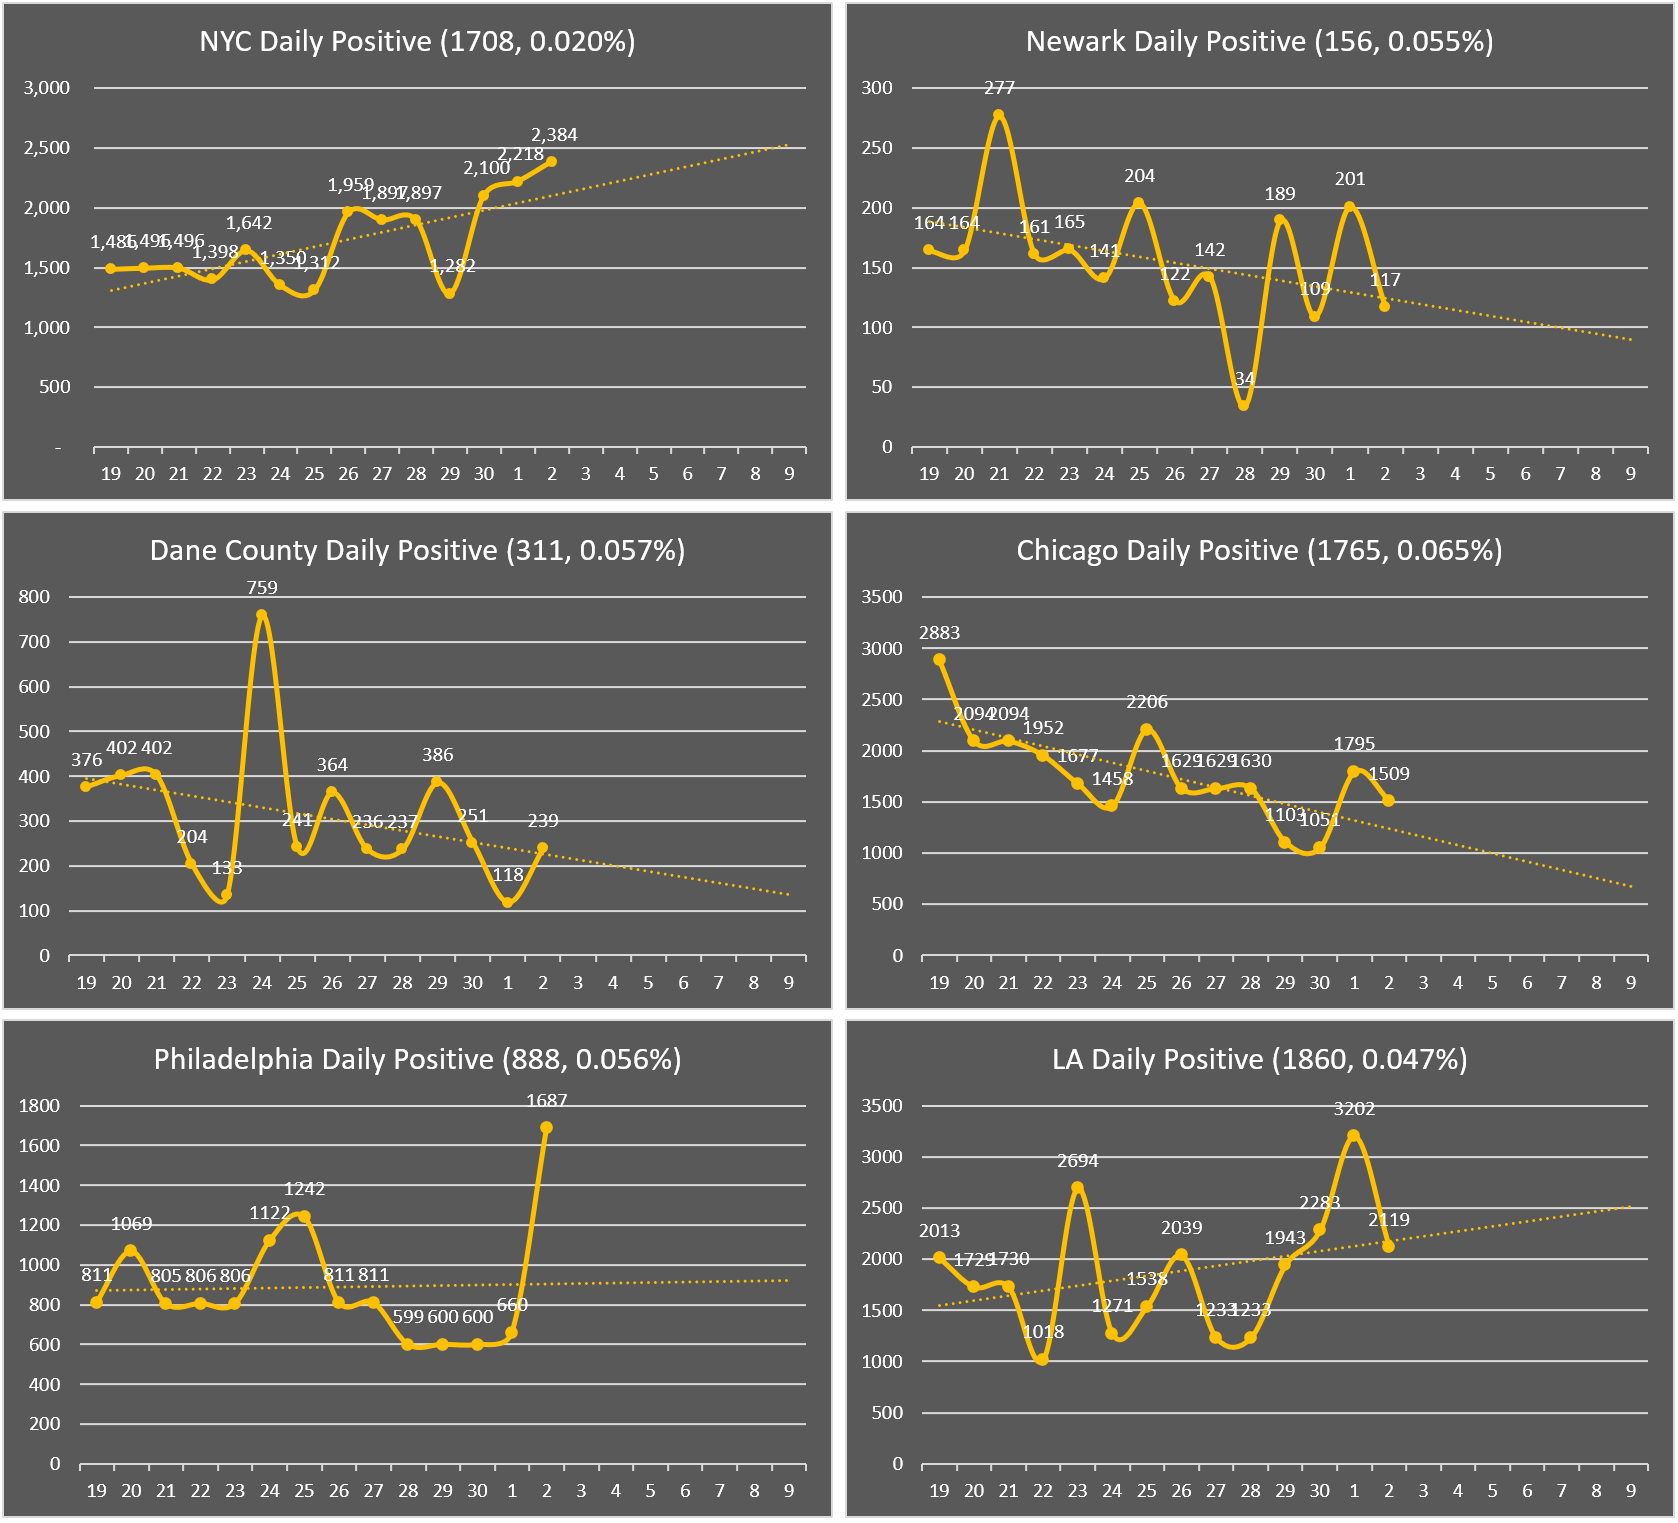
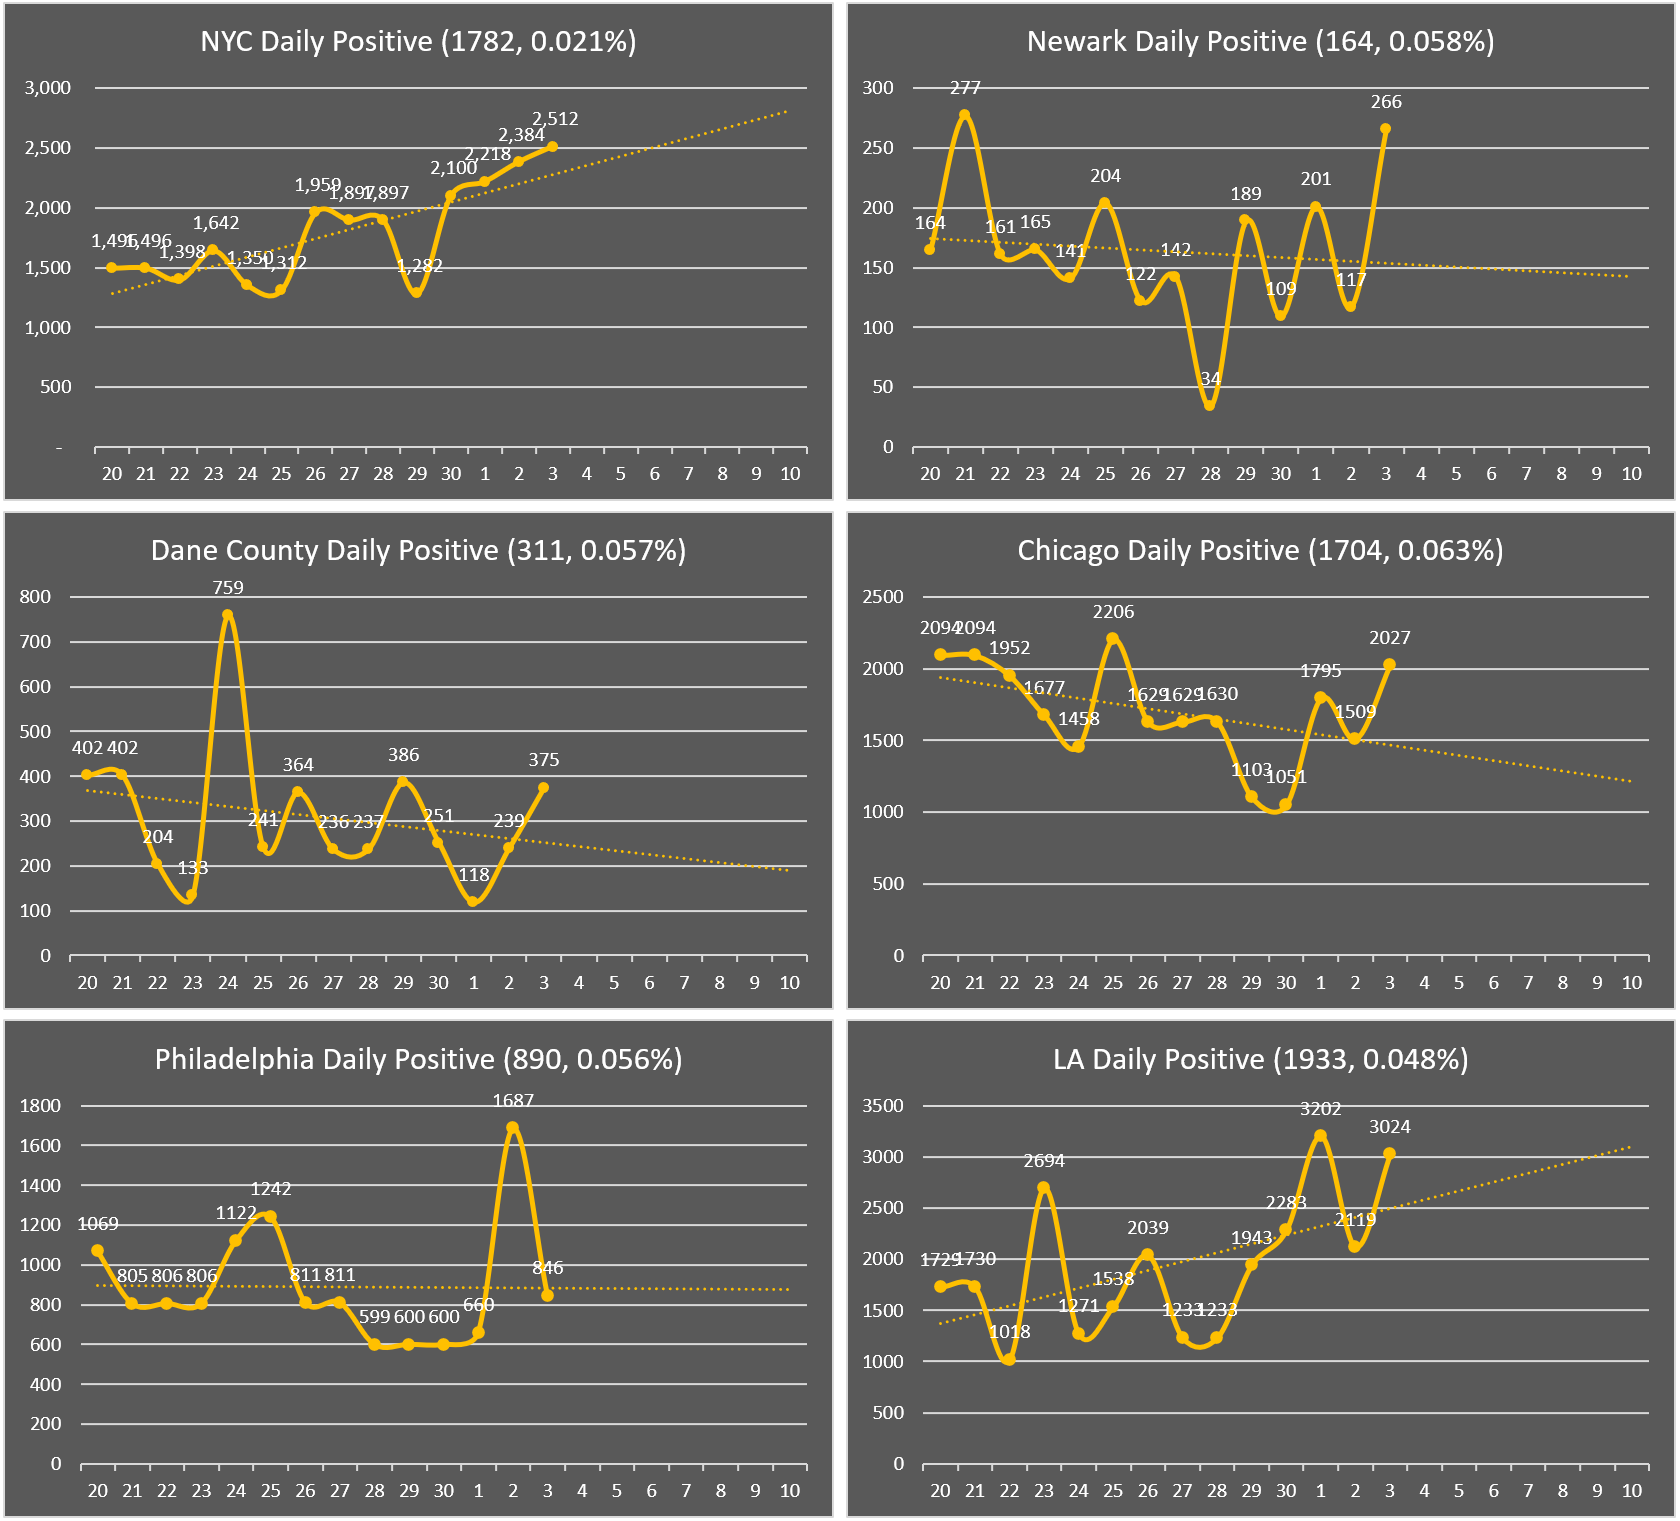
update 12/3 status

diff --git a/index.html b/index.html
@@ -19,7 +19,7 @@
 
 <body class="container-fluid">
 	<h1> CoronaV for Friends</h1>
-	<h2> Data updated at Dec 03 2020 EST 01:30</h2>
+	<h2> Data updated at Dec 03 2020 EST 10:20</h2>
 	<hr>
 	<main>
 		<div class="row">
